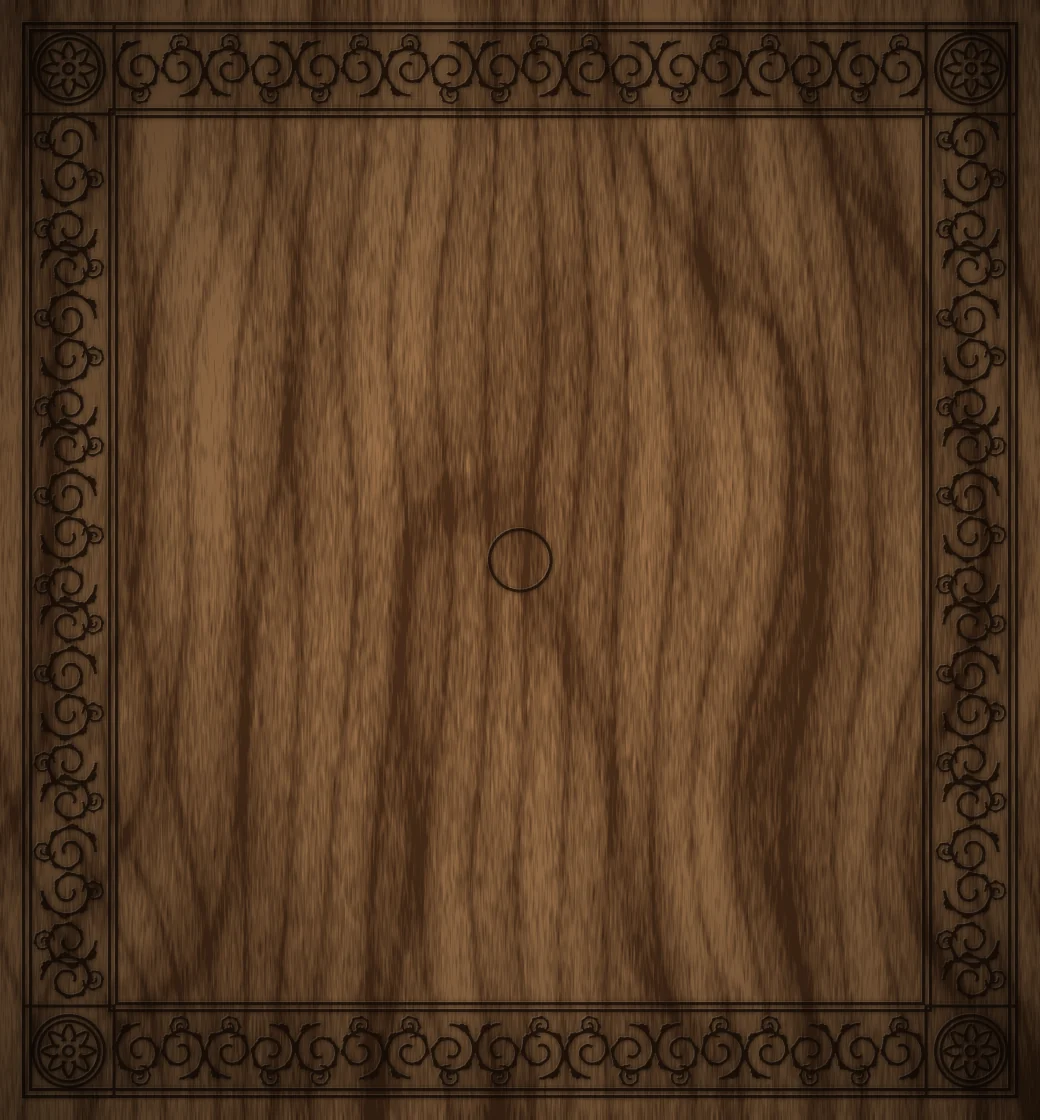
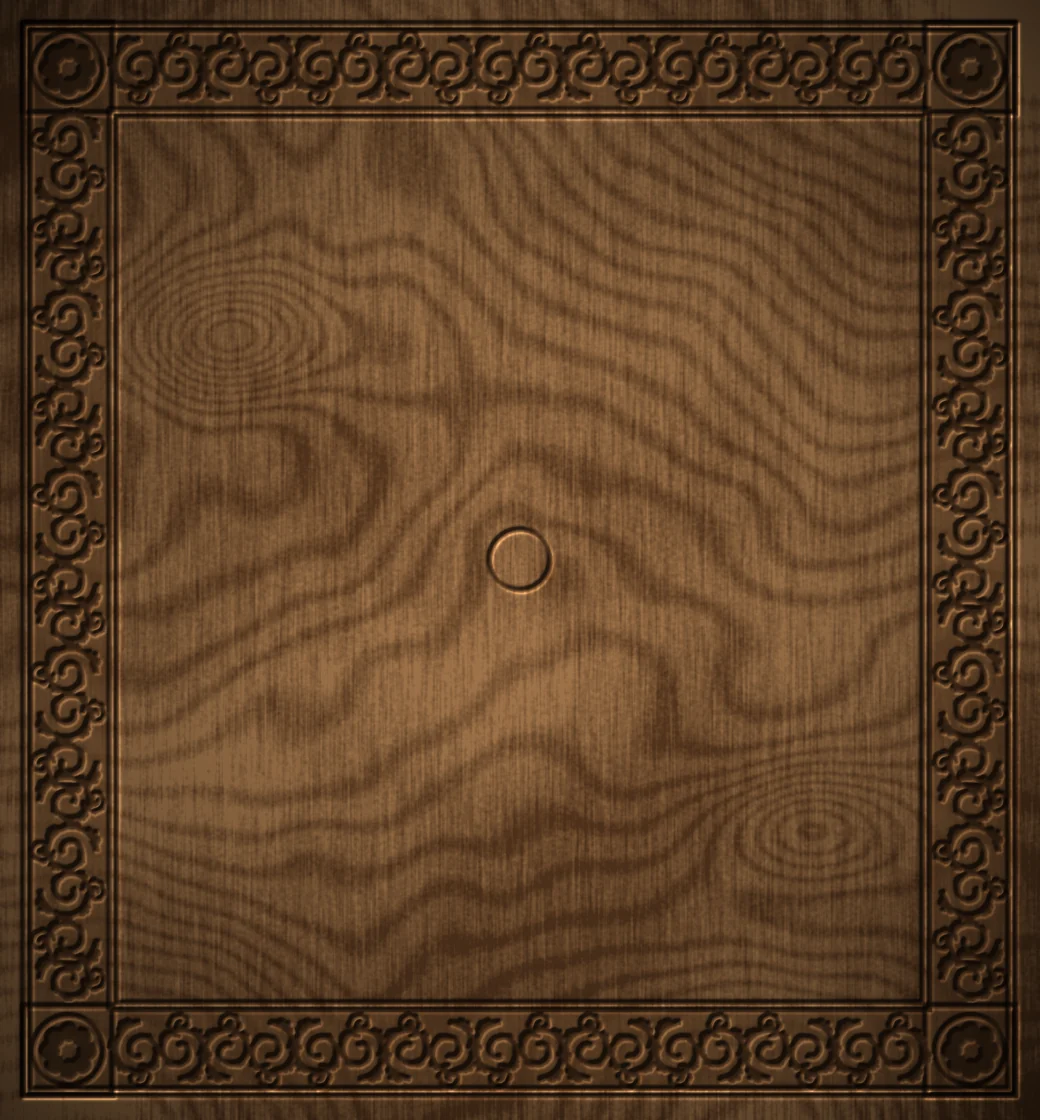
アルケルケ: ヒストリカルを複雑な杢目(節・年輪のうねり)と彫りの立体感に、モダンを流れる大柄の古典花柄に
Claude-Session: https://claude.ai/code/session_01EiWRAYzNyyFMGgYmiTnvUY

diff --git a/alquerque/index.html b/alquerque/index.html
@@ -1211,8 +1211,8 @@ body.hb-on .hb .controls.hb-menu{display:flex!important}
   html:is([data-rule=dimy],[data-rule=telo],[data-rule=alq]) body .app > .rvbox{grid-area:bx;height:auto;max-height:40vh}
 }
 /* ---- Alquerque: historical (carved wood), modern (damask cloth), chalk (slate) — tools/gen_rugs.py */
-html[data-bd=carved]{--wimg:url(img/rug-carved.webp?v=3);--edge:#3a2414;--wdl:#2b190c}
-html[data-bd=damask]{--wimg:url(img/rug-damask.webp?v=3);--edge:#26323f;--wdl:#eef2f6}
+html[data-bd=carved]{--wimg:url(img/rug-carved.webp?v=4);--edge:#3a2414;--wdl:#2b190c}
+html[data-bd=damask]{--wimg:url(img/rug-damask.webp?v=4);--edge:#26323f;--wdl:#eef2f6}
 html[data-bd=chalk]{--wimg:url(img/rug-chalk.webp?v=1);--edge:#1c1d1e;--wdl:#ecebe6}
 html:is([data-bd=carved],[data-bd=damask],[data-bd=chalk]) .frame{background:var(--wimg) 0 0 / 100% 100%;border-radius:calc(var(--cell) * .1);
   box-shadow:0 calc(var(--cell) * .05) 0 var(--edge),0 40px 70px -26px rgba(0,0,0,.85)}
@@ -1612,7 +1612,7 @@ html[data-pcs=felt] .pdisc.p1{background:#e6dcc4} html[data-pcs=felt] .pdisc.p2{
 window.GAME = { id: 'alquerque', name: 'Alquerque', base: 'alq', rules: ['alq'], store: 'aicoding-alquerque', img: '../images/atlas/alquerque.webp',
   engine: '../fanorona/engine.js?v=fb2', bd: 'medallion', pcs: 'brass',
   bds: ['medallion', 'kilim', 'patch', 'chalk', 'carved', 'damask', 'abstract', 'dark'], pcss: ['brass', 'felt', 'wood', 'matte', 'flat', 'mono'],
-  bdImg: { carved: 'img/rug-carved.webp?v=3', damask: 'img/rug-damask.webp?v=3', chalk: 'img/rug-chalk.webp?v=1', medallion: 'img/rug-medallion.webp?v=7', kilim: 'img/rug-kilim.webp?v=6', patch: 'img/rug-patch.webp?v=6' },
+  bdImg: { carved: 'img/rug-carved.webp?v=4', damask: 'img/rug-damask.webp?v=4', chalk: 'img/rug-chalk.webp?v=1', medallion: 'img/rug-medallion.webp?v=7', kilim: 'img/rug-kilim.webp?v=6', patch: 'img/rug-patch.webp?v=6' },
   bdPal: { carved: ['#96704a', '#5e4026', '#2b190c'], damask: ['#3a4c60', '#26323f', '#eef2f6'], chalk: ['#2e3032', '#1c1d1e', '#ecebe6'], medallion: ['#962020', '#5a1c40', '#e2b254'], kilim: ['#cc282e', '#ec6e22', '#f4e8d2'], patch: ['#7a3a5a', '#2a608c', '#f4ead6'] },
   pcPal: { wood: [['#e0bc84', '#c49a64', '#7a5634'], ['#7a5232', '#5a3a20', '#2a180a']], matte: [['#ffffff', '#ecebe6', '#bdbab2'], ['#3a3a3c', '#1e1e20', '#0a0a0b']], brass: [['#fff0b8', '#d9ad4a', '#8a6420'], ['#3d5fb8', '#1d3478', '#0b1636']], felt: [['#f6eedc', '#e6dcc4', '#a89a80'], ['#3a5cae', '#1e3a84', '#0e1c48']] } };
 window.OL_VARIANTS = ['alq']; window.OL_DB_PREFIX = 'alq/';

diff --git a/alquerque/tools/gen_rugs.py b/alquerque/tools/gen_rugs.py
@@ -371,25 +371,59 @@ def acanthus(d, x, y, R, a0, sgn, w, leaves=True, depth=2, lobe=.34):
         acanthus(d, px + R * .2 * math.cos(ang), py + R * .2 * math.sin(ang), R * .42, ang + math.pi, -sgn, w * .75, leaves, depth - 1, lobe)
 
 
+def fbm(rng, sig, octaves=4, h=H, w=W):
+    out = np.zeros((h, w)); amp = 1.0
+    for o in range(octaves):
+        n = gaussian_filter(rng.standard_normal((h, w)), sig / (2 ** o)); n /= n.std() + 1e-9
+        out += n * amp; amp *= .5
+    return out / out.std()
+
+
+def wood_complex(rng, base, dark):
+    """plywood-like figured grain: growth rings of a domain-warped distance field (cathedral arches, swirls)
+    with a few knots, latewood lines and pores."""
+    yy, xx = np.mgrid[0:H, 0:W].astype(np.float64)
+    w1 = fbm(rng, 260, 4); w2 = fbm(rng, 120, 3)
+    # distance to a slanted "pith" line far below plus warps: arches and swirls
+    d = np.hypot((xx - W * .45) * .55, (yy - H * 1.6)) / S
+    d = d + w1 * .9 + w2 * .35
+    for (kx, ky) in ((W * .22, H * .3), (W * .78, H * .74)):   # knots
+        kr = .3 * S
+        r = np.hypot(xx - kx, (yy - ky) * 1.6)
+        infl = np.exp(-(r / (kr * 2.4)) ** 2)
+        d = d * (1 - infl) + (r / S * 1.1 + d * .6) * infl
+    ring = (d * 2.6) % 1.0
+    late = np.sin(np.clip((ring - .45) / .55, 0, 1) * math.pi) ** 1.2   # dark latewood band at the end of each ring
+    early = np.clip(ring / .78, 0, 1)
+    pores = fbm(rng, 1.2, 2); streak = gaussian_filter(rng.standard_normal((H, W)), (14, .8)); streak /= streak.std()
+    t = np.clip(.3 + .38 * gaussian_filter(late, 1.2) + .07 * pores + .1 * streak + .16 * fbm(rng, 90, 2), 0, 1)
+    base, dark = np.array(base, float), np.array(dark, float)
+    return base * (1 - t[..., None]) + dark * t[..., None]
+
+
+def carve(a, m, depth=6.0, groove=(46, 28, 16)):
+    """relief carving from a mask: the cut is sunk (height -depth), lit from the upper left — walls catch light on one side,
+    shadow on the other, the floor is darker and rougher."""
+    h = -gaussian_filter(m, 1.4) * depth
+    gy, gx = np.gradient(h)
+    lam = np.clip(1 + (-gx * -.6 + -gy * -.7) * .9, .35, 1.6)
+    floor = gaussian_filter(m, .6)
+    a = a * lam[..., None]
+    a = a * (1 - .55 * floor[..., None]) + np.array(groove, float) * .55 * floor[..., None]
+    return a
+
+
 def carved(seed=5):
-    """birch plywood stained mid brown (fine straight grain, soft figure), laser-engraved: a recessed border band of running
-    acanthus scrolls between double rules, corner roundels with a rosette knot, a ring round c3."""
+    """stained plywood with figured grain, a deeply carved border of acanthus scrolls between rules, rosette roundels in the
+    corners and a ring round c3."""
     rng = np.random.default_rng(seed)
     yy, xx = np.mgrid[0:H, 0:W].astype(np.float64)
-    warp = gaussian_filter(rng.standard_normal((H, W)), (120, 60)); warp /= warp.std()
-    arch = ((xx - W * .52) / (W * .9)) ** 2 * 0 + np.abs(xx - W * .5) / S * 1.4 + (yy / H - .5) ** 2 * 0
-    cath = np.sqrt(np.maximum(0, ((xx - W * .5) / (S * .9)) ** 2 + ((yy - H * 1.25) / (S * 4.5)) ** 2)) * 6.5 + warp * 1.6
-    ring = np.sin(cath) ; ring = np.sign(ring) * np.abs(ring) ** .6
-    fine = np.sin(xx / 7.5 + warp * 3.0 + gaussian_filter(rng.standard_normal((H, W)), (240, 3)) * 2.2)
-    fig = gaussian_filter(rng.standard_normal((H, W)), (120, 20)); fig /= fig.std()
-    pores = gaussian_filter(rng.standard_normal((H, W)), (5, .6)); pores /= pores.std()
-    late = np.clip((fine - .82) / .18, 0, 1) + np.clip((np.sin(cath * 1.0) - .9) / .1, 0, 1)   # dark latewood lines
-    t = np.clip(.42 + .14 * ring + .08 * fine + .12 * fig + .12 * pores + .28 * gaussian_filter(late, (3, 1.2)), 0, 1)
-    base, dark = np.array((166, 124, 84.)), np.array((84, 54, 32.))
-    a = base * (1 - t[..., None]) + dark * t[..., None]
+    a = wood_complex(rng, (170, 128, 86), (96, 64, 38))
     bw = S * .58; m0 = S * .14; m1 = m0 + bw
-    def band(dd):
-        for m in (m0, m0 + 7, m1 - 7, m1): dd.rectangle([m * SS, m * SS, (W - m) * SS, (H - m) * SS], outline=255, width=3 * SS)
+    def rules(dd):
+        for m in (m0, m0 + 7, m1 - 7, m1): dd.rectangle([m * SS, m * SS, (W - m) * SS, (H - m) * SS], outline=255, width=4 * SS)
+        cx, cy = P(2, 2); r = S * .2
+        dd.ellipse([(cx - r) * SS, (cy - r) * SS, (cx + r) * SS, (cy + r) * SS], outline=255, width=4 * SS)
     def scrolls(dd):
         inner = bw - 22; c0 = m0 + bw / 2
         for horiz, L, fixeds in ((True, W, (c0, H - c0)), (False, H, (c0, W - c0))):
@@ -399,87 +433,89 @@ def carved(seed=5):
                     u = m1 + step * (k + .5); sg = 1 if k % 2 else -1
                     x, y = (u, f) if horiz else (f, u)
                     ox, oy = (step * .22, 0) if horiz else (0, step * .22)
-                    acanthus(dd, x - ox, y - oy, inner * .38, (math.pi / 2 if horiz else 0) * sg, sg, 3.2, True, 2)
-                    acanthus(dd, x + ox, y + oy, inner * .38, (-math.pi / 2 if horiz else math.pi) * sg, sg, 3.2, True, 2)
+                    acanthus(dd, x - ox, y - oy, inner * .4, (math.pi / 2 if horiz else 0) * sg, sg, 5, True, 2, .5)
+                    acanthus(dd, x + ox, y + oy, inner * .4, (-math.pi / 2 if horiz else math.pi) * sg, sg, 5, True, 2, .5)
         for (cx, cy) in ((c0, c0), (W - c0, c0), (c0, H - c0), (W - c0, H - c0)):
-            dd.rectangle([(cx - bw / 2) * SS, (cy - bw / 2) * SS, (cx + bw / 2) * SS, (cy + bw / 2) * SS], outline=255, width=3 * SS)
-            for r_ in (.4, .34): dd.ellipse([(cx - bw * r_) * SS, (cy - bw * r_) * SS, (cx + bw * r_) * SS, (cy + bw * r_) * SS], outline=255, width=3 * SS)
-            for k in range(8):   # interlaced knot rosette
+            dd.rectangle([(cx - bw / 2) * SS, (cy - bw / 2) * SS, (cx + bw / 2) * SS, (cy + bw / 2) * SS], outline=255, width=4 * SS)
+            dd.ellipse([(cx - bw * .4) * SS, (cy - bw * .4) * SS, (cx + bw * .4) * SS, (cy + bw * .4) * SS], outline=255, width=4 * SS)
+            for k in range(8):
                 q = k * math.pi / 4
-                pts = [(cx + bw * .3 * math.cos(q + t_) * (1 - abs(t_) * 1.2), cy + bw * .3 * math.sin(q + t_) * (1 - abs(t_) * 1.2)) for t_ in np.linspace(-.5, .5, 12)]
-                dd.line(sc(pts), fill=255, width=3 * SS)
-            dd.ellipse([(cx - bw * .07) * SS, (cy - bw * .07) * SS, (cx + bw * .07) * SS, (cy + bw * .07) * SS], outline=255, width=3 * SS)
-        cx, cy = P(2, 2); r = S * .2
-        dd.ellipse([(cx - r) * SS, (cy - r) * SS, (cx + r) * SS, (cy + r) * SS], outline=255, width=3 * SS)
-    # recessed band: slightly darker and smoother inside the rules
+                px, py = cx + bw * .2 * math.cos(q), cy + bw * .2 * math.sin(q)
+                dd.ellipse([(px - bw * .1) * SS, (py - bw * .1) * SS, (px + bw * .1) * SS, (py + bw * .1) * SS], fill=255)
+            dd.ellipse([(cx - bw * .07) * SS, (cy - bw * .07) * SS, (cx + bw * .07) * SS, (cy + bw * .07) * SS], fill=0)
+    # the border band is sunk a little (a shallow recess), the motifs are carved into it
     rec = lmask(lambda dd: (dd.rectangle([(m0 + 7) * SS, (m0 + 7) * SS, (W - m0 - 7) * SS, (H - m0 - 7) * SS], fill=255), dd.rectangle([(m1 - 7) * SS, (m1 - 7) * SS, (W - m1 + 7) * SS, (H - m1 + 7) * SS], fill=0)))
-    a *= (1 - .12 * gaussian_filter(rec, 1))[..., None]
-    m = np.clip(lmask(band) + lmask(scrolls), 0, 1)
-    halo = gaussian_filter(m, 2.2)   # laser char round the cut
-    a *= (1 - .35 * np.clip(halo * 1.6, 0, 1))[..., None]
-    a = a * (1 - .78 * m[..., None]) + np.array((38, 22, 12.)) * .78 * m[..., None]
-    lip = np.clip(np.roll(np.roll(m, -1, 0), -1, 1) - m, 0, 1)
-    a += (lip * 30)[..., None]
-    v = 1 - .28 * (((xx - W / 2) / (W / 2)) ** 2 + ((yy - H / 2) / (H / 2)) ** 2)
+    a = carve(a, rec, 3.0, (120, 84, 52)) * 1.0
+    a = carve(a, lmask(scrolls), 7.0)
+    a = carve(a, lmask(rules), 5.0)
+    v = 1 - .3 * (((xx - W / 2) / (W / 2)) ** 2 + ((yy - H / 2) / (H / 2)) ** 2)
     return Image.fromarray(np.clip(a * v[..., None], 0, 255).astype(np.uint8))
 
 
-def flower(dd, x, y, R):
-    """a classical damask flower head: two rings of rounded petals, a cupped centre and seeds."""
-    for ring_, n, rr_, off in ((1, 8, 1.0, 0), (2, 6, .62, math.pi / 6)):
-        for k in range(n):
-            a = k * 2 * math.pi / n + off
-            px, py = x + R * rr_ * .55 * math.cos(a), y + R * rr_ * .55 * math.sin(a)
-            pr = R * rr_ * .42
-            pts = [(px + pr * math.cos(u) * (1.0 if abs(math.cos(u - a)) > 0 else 1) , py + pr * math.sin(u)) for u in np.linspace(0, 2 * math.pi, 20)]
-            dd.polygon(sc(pts), fill=255 if ring_ == 1 else 0)
-            if ring_ == 1: dd.line(sc([(x + R * .25 * math.cos(a), y + R * .25 * math.sin(a)), (x + R * .8 * math.cos(a), y + R * .8 * math.sin(a))]), fill=0, width=2 * SS)
-    dd.ellipse([(x - R * .22) * SS, (y - R * .22) * SS, (x + R * .22) * SS, (y + R * .22) * SS], fill=255)
-    for k in range(7):
-        a = k * 2 * math.pi / 7; dd.ellipse([(x + R * .1 * math.cos(a) - 3) * SS, (y + R * .1 * math.sin(a) - 3) * SS, (x + R * .1 * math.cos(a) + 3) * SS, (y + R * .1 * math.sin(a) + 3) * SS], fill=0)
+def baroque_leaf(dd, x, y, ang, L, sgn, fill=255):
+    """a large curling acanthus leaf: a curved blade with deep serrated lobes, its tip rolling over."""
+    pts_out, pts_in = [], []
+    for t in np.linspace(0, 1, 40):
+        a = ang + sgn * t * 2.2 * t
+        cx, cy = x + L * t * math.cos(ang + sgn * t * .9), y + L * t * math.sin(ang + sgn * t * .9)
+        wdt = L * .22 * math.sin(math.pi * min(1, t * 1.1)) * (1 - .3 * t)
+        lob = 1 + .45 * max(0, math.sin(t * math.pi * 7))   # serrated lobes on the outer edge
+        nx, ny = -math.sin(ang + sgn * t * .9), math.cos(ang + sgn * t * .9)
+        pts_out.append((cx + nx * wdt * lob * sgn, cy + ny * wdt * lob * sgn)); pts_in.append((cx - nx * wdt * .45 * sgn, cy - ny * wdt * .45 * sgn))
+    dd.polygon(sc(pts_out + pts_in[::-1]), fill=fill)
+    # rolled tip
+    ex, ey = pts_out[-1]
+    pts = [(ex + L * .12 * (1 - u * .7) * math.cos(ang + sgn * (1.5 + u * 5)), ey + L * .12 * (1 - u * .7) * math.sin(ang + sgn * (1.5 + u * 5))) for u in np.linspace(0, 1, 20)]
+    dd.line(sc(pts), fill=fill, width=int(L * .05) * SS)
+    # vein (cut back into the leaf)
+    vein = [((p[0] + q[0]) / 2, (p[1] + q[1]) / 2) for p, q in zip(pts_out[2:30], pts_in[2:30])]
+    dd.line(sc(vein), fill=0 if fill == 255 else 255, width=max(2, int(L * .015)) * SS)
+
+
+def flower5(dd, x, y, R, rot=0):
+    for k in range(5):
+        a = rot + k * 2 * math.pi / 5
+        px, py = x + R * .5 * math.cos(a), y + R * .5 * math.sin(a)
+        pts = [(px + R * .5 * math.cos(u) * (1 + .12 * math.cos(3 * u)), py + R * .5 * math.sin(u) * (1 + .12 * math.cos(3 * u))) for u in np.linspace(0, 2 * math.pi, 24)]
+        dd.polygon(sc(pts), fill=255)
+        dd.line(sc([(x + R * .3 * math.cos(a), y + R * .3 * math.sin(a)), (x + R * .85 * math.cos(a), y + R * .85 * math.sin(a))]), fill=0, width=2 * SS)
+    for k in range(5):
+        a = rot + (k + .5) * 2 * math.pi / 5
+        dd.line(sc([(x + R * .45 * math.cos(a), y + R * .45 * math.sin(a)), (x + R * .7 * math.cos(a), y + R * .7 * math.sin(a))]), fill=0, width=2 * SS)
+    dd.ellipse([(x - R * .2) * SS, (y - R * .2) * SS, (x + R * .2) * SS, (y + R * .2) * SS], fill=0)
+    dd.ellipse([(x - R * .12) * SS, (y - R * .12) * SS, (x + R * .12) * SS, (y + R * .12) * SS], fill=255)
 
 
 def damask(seed=6):
-    S = globals()['S'] * 1.5
-    """blue-grey microfibre cloth printed with a large baroque damask (mirrored acanthus scrolls round a palmette),
-    tone on tone, with a pinked edge."""
+    """blue-grey cloth with a large flowing baroque floral (sweeping vines, big curling acanthus leaves, five-petal flowers,
+    fine tendrils), printed faintly tone on tone."""
     rng = np.random.default_rng(seed)
-    base = np.array((70, 86, 108.)); hi = np.array((112, 128, 150.)); lo = np.array((56, 70, 90.))
-    tw, th = S * 2.2, S * 2.6
-    def motif(dd):
-        for j in range(-1, int(H / th) + 2):
-            for i in range(-1, int(W / tw) + 2):
-                cx = i * tw + (tw / 2 if j % 2 else 0); cy = j * th + th * .1
-                for sg in (1, -1):
-                    acanthus(dd, cx + sg * S * .32, cy - S * .25, S * .46, math.pi if sg > 0 else 0, -sg, 7, True, 3, .62)
-                    acanthus(dd, cx + sg * S * .45, cy + S * .55, S * .32, -math.pi / 2, sg, 6, True, 2, .6)
-                    # long sweeping fronds
-                    pts = [(cx + sg * (S * .05 + S * .9 * t_), cy - S * .9 * t_ * t_ + S * .1) for t_ in np.linspace(0, 1, 30)]
-                    dd.line(sc(pts), fill=255, width=6 * SS)
-                    for k in range(3, 28, 4):
-                        px, py = pts[k]; rr_ = 16 * (1 - k / 40)
-                        dd.ellipse([(px + sg * 10 - rr_) * SS, (py - 14 - rr_ * .6) * SS, (px + sg * 10 + rr_) * SS, (py - 14 + rr_ * .6) * SS], fill=255)
-                # central palmette
-                pal = [(cx, cy - S * .95), (cx + S * .16, cy - S * .55), (cx + S * .1, cy - S * .2), (cx, cy - S * .05), (cx - S * .1, cy - S * .2), (cx - S * .16, cy - S * .55)]
-                dd.polygon(sc(pal), fill=255)
-                for k in range(5):
-                    yk = cy - S * .2 - k * S * .14
-                    dd.line(sc([(cx - S * .08, yk), (cx, yk - S * .05), (cx + S * .08, yk)]), fill=0, width=3 * SS)
-                dd.ellipse([(cx - 14) * SS, (cy + S * .1 - 14) * SS, (cx + 14) * SS, (cy + S * .1 + 14) * SS], fill=255)
-                for (fx, fy, fr) in ((cx, cy - S * 1.3, S * .34), (cx - S * .95, cy - S * .95, S * .2), (cx + S * .95, cy - S * .95, S * .2), (cx, cy + S * .95, S * .26)):
-                    flower(dd, fx, fy, fr)
-    def shadow_motif(dd):   # a smaller, darker counter-pattern between the motifs
-        for j in range(-1, int(H / th) + 2):
-            for i in range(-1, int(W / tw) + 2):
-                cx = i * tw + (0 if j % 2 else tw / 2); cy = j * th + th * .6
-                for sg in (1, -1): acanthus(dd, cx + sg * S * .18, cy, S * .24, 0 if sg > 0 else math.pi, sg, 5, True, 1, .6)
-    m = gaussian_filter(lmask(motif), .9); m2 = gaussian_filter(lmask(shadow_motif), .9)
-    a = base * (1 - .42 * m[..., None]) + hi * .42 * m[..., None]
-    a = a * (1 - .35 * m2[..., None]) + lo * .35 * m2[..., None]
+    base = np.array((70, 86, 108.)); hi = np.array((120, 136, 158.))
+    def art(dd):
+        for v in range(13):   # long vines sweeping across the cloth
+            x, y = rng.uniform(-S, W + S), rng.uniform(-S, H + S); ang = rng.uniform(0, 2 * math.pi); curv = 0; pts = [(x, y)]
+            for i in range(46):
+                curv += rng.normal(0, .02); curv = max(-.06, min(.06, curv)); ang += curv
+                x += math.cos(ang) * 10; y += math.sin(ang) * 10; pts.append((x, y))
+                if i % 8 == 4:
+                    sg = 1 if (i // 8) % 2 else -1
+                    baroque_leaf(dd, x, y, ang + sg * .9, S * rng.uniform(1.0, 1.6), sg)
+                if i % 23 == 11:
+                    # a tendril spiral
+                    sg = rng.choice([-1, 1]); a0 = ang + sg * 1.4; tr = S * rng.uniform(.25, .4)
+                    sp = [(x + math.cos(a0) * tr * .2 + tr * (1 - u * .85) * math.cos(a0 + sg * u * 9), y + math.sin(a0) * tr * .2 + tr * (1 - u * .85) * math.sin(a0 + sg * u * 9)) for u in np.linspace(0, 1, 50)]
+                    dd.line(sc(sp), fill=255, width=3 * SS)
+                if i % 19 == 13:
+                    flower5(dd, x + math.cos(ang + 1.6) * S * .5, y + math.sin(ang + 1.6) * S * .5, S * rng.uniform(.4, .6), rng.uniform(0, 6))
+            dd.line(sc(pts), fill=255, width=9 * SS, joint='curve')
+        for _ in range(10):
+            flower5(dd, rng.uniform(0, W), rng.uniform(0, H), S * rng.uniform(.22, .34), rng.uniform(0, 6))
+    m = gaussian_filter(lmask(art), .8)
+    a = base * (1 - .3 * m[..., None]) + hi * .3 * m[..., None]
     yy, xx = np.mgrid[0:H, 0:W].astype(np.float64)
     fab = gaussian_filter(rng.standard_normal((H, W)), .5); fab /= fab.std()
-    sheen = gaussian_filter(rng.standard_normal((H, W)), 80); sheen /= sheen.std()
-    a *= (1 + .03 * fab + .035 * sheen + .015 * np.sin(xx * 1.7 + yy * 1.7))[..., None]
+    sheen = gaussian_filter(rng.standard_normal((H, W)), 90); sheen /= sheen.std()
+    a *= (1 + .03 * fab + .035 * sheen + .012 * np.sin(xx * 1.7 + yy * 1.7))[..., None]
     return Image.fromarray(np.clip(a, 0, 255).astype(np.uint8))
 
 
